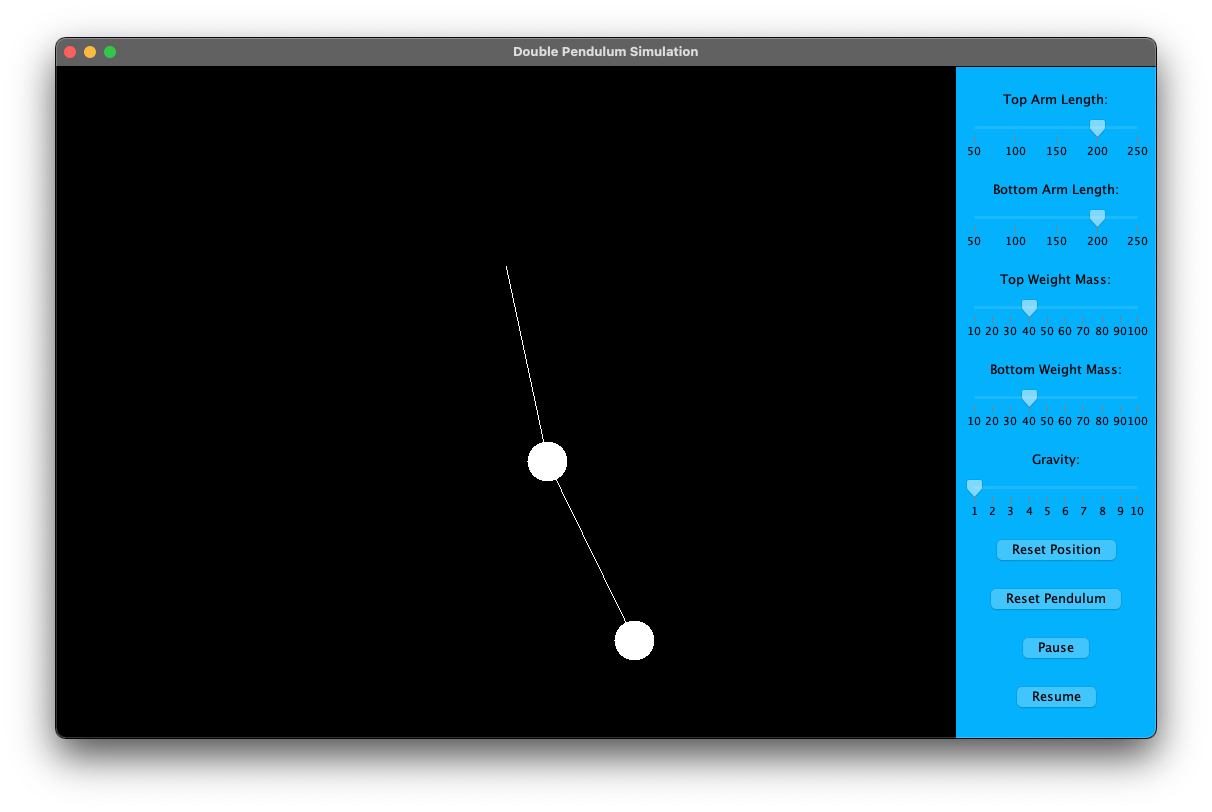
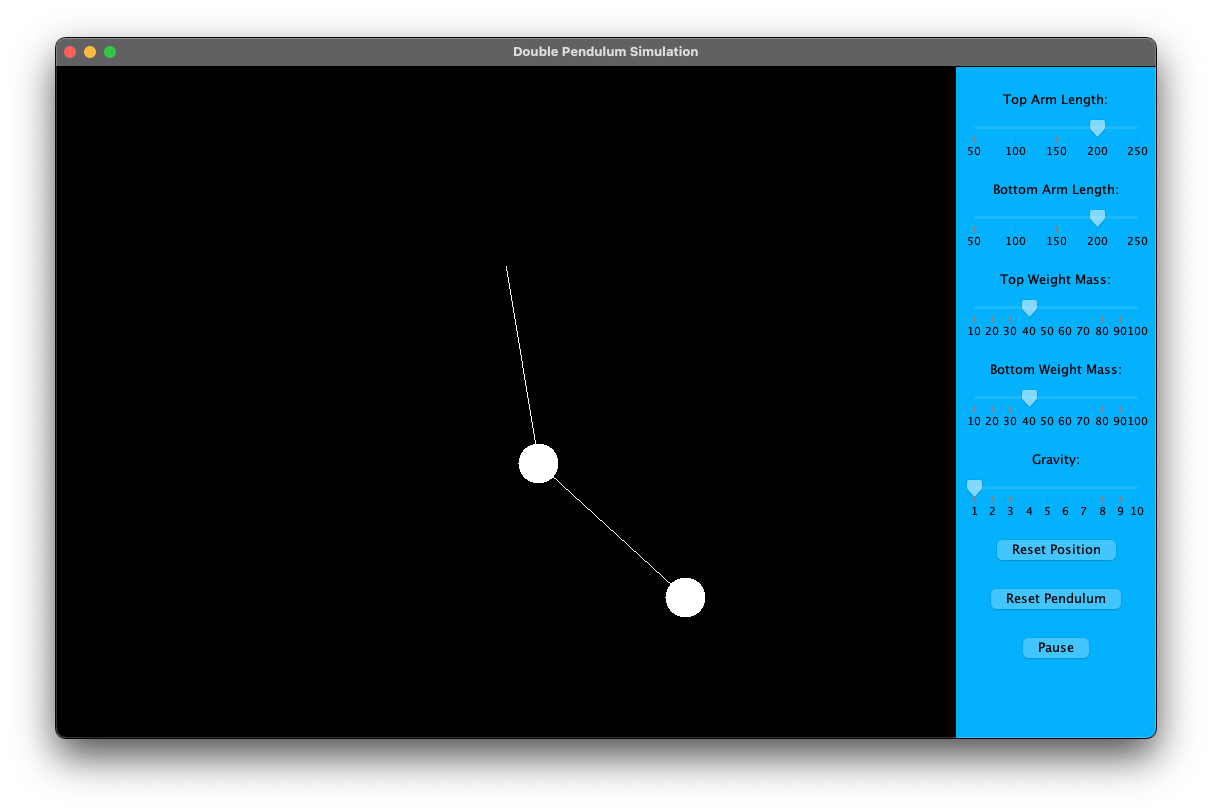
Combined pause/resume buttons

diff --git a/DoublePendulum.java b/DoublePendulum.java
@@ -61,6 +61,8 @@ class PendulumPanel extends JPanel implements ActionListener {
 
     private Timer drawTimer; // A timer that is used to draw each frame
 
+    private JButton pauseResume;
+
     public PendulumPanel() {
         setBackground(Color.BLACK);
         drawTimer = new Timer(15, this);
@@ -216,15 +218,10 @@ class PendulumPanel extends JPanel implements ActionListener {
             resetPendulum.addActionListener(buttonsListener);
             add(resetPendulum);
 
-            // Button to pause
-            JButton pause = new JButton("Pause");
-            pause.addActionListener(buttonsListener);
-            add(pause);
-
-            // Button to resume
-            JButton resume = new JButton("Resume");
-            resume.addActionListener(buttonsListener);
-            add(resume);
+            // Button to pause/resume
+            pauseResume = new JButton("Pause");
+            pauseResume.addActionListener(buttonsListener);
+            add(pauseResume);
         }
     
         // This method makes a JSlider based on certain parameters.
@@ -313,8 +310,10 @@ class PendulumPanel extends JPanel implements ActionListener {
                     gravSlider.setValue(1);
                 } else if (button.equalsIgnoreCase("Pause")) {
                     drawTimer.stop();
+                    pauseResume.setText("Resume");
                 } else if (button.equalsIgnoreCase("Resume")) {
                     drawTimer.start();
+                    pauseResume.setText("Pause");
                 }
             }
         }
